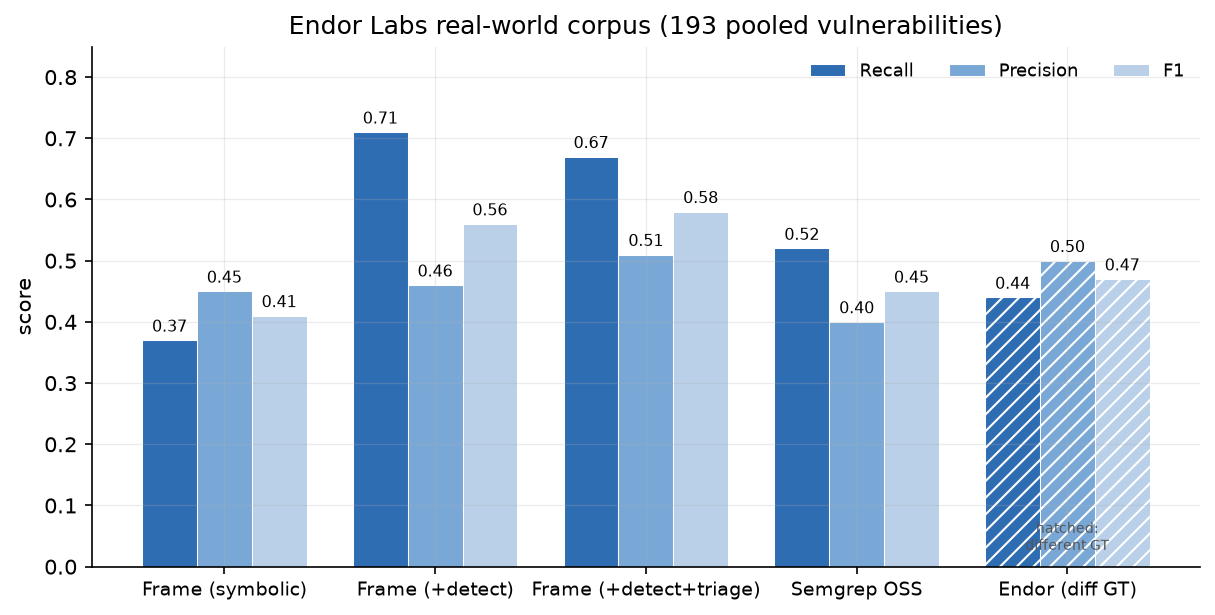
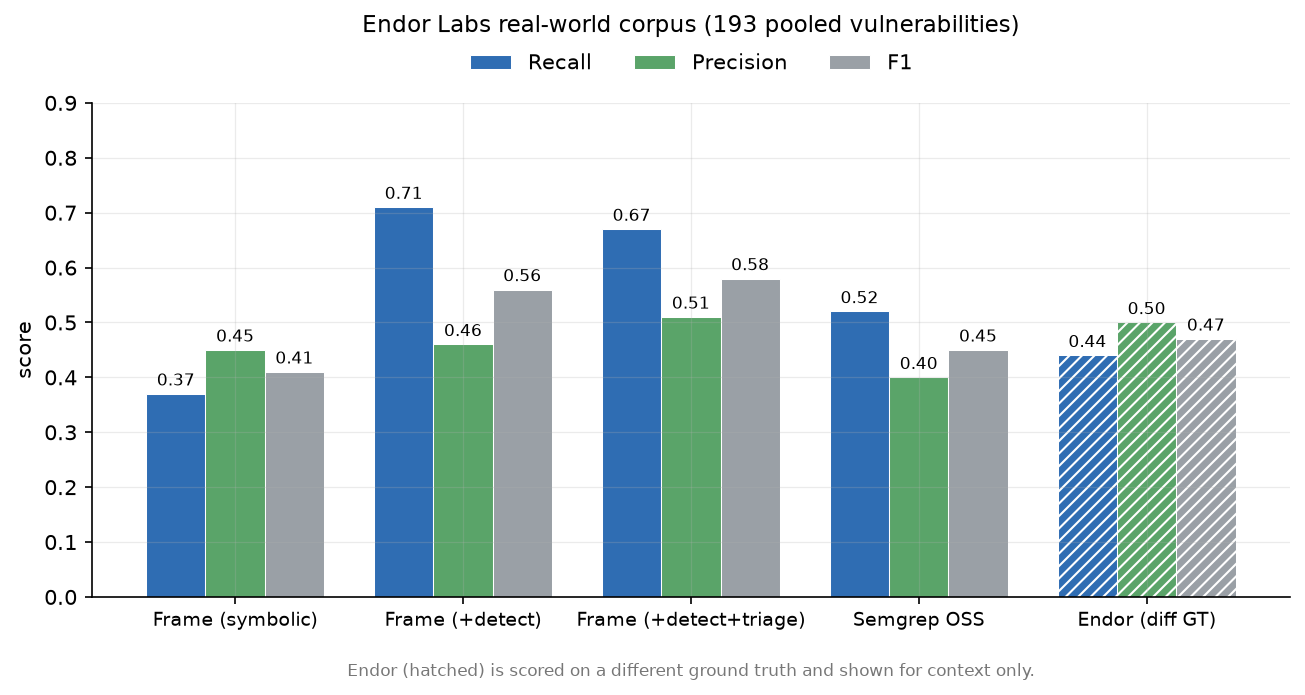
writeup: cleaner architecture diagram, clearer figs 2/4, link corpus code
Orthogonal architecture SVG (no overlapping arrows); fig2 distinct colors + legend
above bars + different-GT note; fig4 legend clears the bars; case-study files link
to upstream code at pinned commits; corpus repos linked; drop trailing gen_figures line.

diff --git a/writeup/gen_figures.py b/writeup/gen_figures.py
@@ -49,29 +49,32 @@ def fig_scoreboard():
     scanners = list(sb.keys())
     metrics = ["recall", "precision", "f1"]
     labels = ["Recall", "Precision", "F1"]
-    colors = [C_FRAME, C_FRAME2, C_FRAME3]
+    colors = [C_FRAME, C_LLM, C_ENDOR]   # distinct hues so the legend reads clearly
     x = range(len(scanners))
     w = 0.26
-    fig, ax = plt.subplots(figsize=(8.2, 4.2))
+    fig, ax = plt.subplots(figsize=(8.8, 4.8))
     for i, (m, lab, col) in enumerate(zip(metrics, labels, colors)):
         vals = [sb[s][m] for s in scanners]
         bars = ax.bar([xi + (i - 1) * w for xi in x], vals, w, label=lab, color=col,
                       edgecolor="white", linewidth=0.5)
         for b, v in zip(bars, vals):
             ax.text(b.get_x() + b.get_width() / 2, v + 0.008, f"{v:.2f}",
-                    ha="center", va="bottom", fontsize=7.5)
+                    ha="center", va="bottom", fontsize=8)
     # hatch the Endor group to flag "different ground truth"
     endor_idx = scanners.index("Endor (diff GT)")
     for i in range(3):
-        ax.patches[i * len(scanners) + endor_idx].set_hatch("///")
+        ax.patches[i * len(scanners) + endor_idx].set_hatch("////")
     ax.set_xticks(list(x))
     ax.set_xticklabels(scanners, fontsize=9)
-    ax.set_ylim(0, 0.85)
+    ax.set_ylim(0, 0.9)
     ax.set_ylabel("score")
-    ax.set_title("Endor Labs real-world corpus (193 pooled vulnerabilities)")
-    ax.legend(loc="upper right", frameon=False, ncol=3, fontsize=8.5)
-    ax.text(endor_idx, 0.02, "hatched:\ndifferent GT", ha="center", va="bottom",
-            fontsize=6.5, color="#555")
+    # legend above the plot so it never overlaps a bar
+    ax.legend(loc="lower center", bbox_to_anchor=(0.5, 1.02), ncol=3,
+              frameon=False, fontsize=10)
+    ax.set_title("Endor Labs real-world corpus (193 pooled vulnerabilities)",
+                 pad=34, fontsize=11)
+    ax.text(0.5, -0.16, "Endor (hatched) is scored on a different ground truth and shown for context only.",
+            transform=ax.transAxes, ha="center", fontsize=8, color="#777")
     _save(fig, "fig2_scoreboard.png")
 
 
@@ -116,7 +119,9 @@ def fig_triage():
     for i, (k, d) in enumerate(zip(kept, dropped)):
         a2.text(i, k / 2, str(k), ha="center", va="center", color="white", fontsize=9)
         a2.text(i, k + d / 2, str(d), ha="center", va="center", color="white", fontsize=9)
-    a2.set_title("Triage keeps TPs, drops FPs")
+    a2.set_ylim(0, max(k + d for k, d in zip(kept, dropped)) + 10)  # headroom for legend
+    a2.set_ylabel("findings")
+    a2.set_title("Triage keeps TPs, drops FPs", pad=8)
     a2.legend(loc="upper right", frameon=False, fontsize=8.5)
     _save(fig, "fig4_triage.png")
 

diff --git a/writeup/frame-ai-sast.md b/writeup/frame-ai-sast.md
@@ -40,7 +40,7 @@ The headline is one table. Everything after it is how we got there and why the n
 
 **Precision: a finding that is real-looking but not real.** Frame's symbolic layer, run over a real application, flags a regular-expression denial-of-service pattern inside a bundled, minified JavaScript library it ships. The pattern is there, but the library code is not reachable from any request the application serves. Across the corpus, 264 of Frame's 371 symbolic false positives are exactly this class: `CWE-1333` (ReDoS) and `CWE-1321` (prototype pollution) matched inside vendored libraries. A tool that reports them is not wrong about the syntax; it is wrong about the context. Triage exists to remove them.
 
-**Recall: a vulnerability the symbolic engine cannot express.** Consider this handler from the C# application in the corpus (`DotNetFlicks.Controllers/MovieController.cs`):
+**Recall: a vulnerability the symbolic engine cannot express.** Consider this handler from the C# application in the corpus ([`DotNetFlicks.Web/Controllers/MovieController.cs`](https://github.com/Contrast-Security-OSS/demo-netflicks/blob/2c3dd095c3f9e18d44940678fe68e9ff60f7a740/DotNetFlicks.Web/Controllers/MovieController.cs#L82)):
 
 ```csharp
 /*Sprinkle on some CSRF
@@ -96,11 +96,11 @@ Detection uses structured JSON output and fails safe: any transport or parse err
 
 | Repository | Language(s) | Pooled vulns |
 |---|---|:---:|
-| webgoat | Java, JS/TS | 73 |
-| juice-shop | JS/TS | 72 |
-| shopizer | Java, JS/TS | 29 |
-| anonymous-github | JS/TS | 12 |
-| demo-netflicks | C#, JS | 7 |
+| [webgoat](https://github.com/WebGoat/WebGoat) | Java, JS/TS | 73 |
+| [juice-shop](https://github.com/juice-shop/juice-shop) | JS/TS | 72 |
+| [shopizer](https://github.com/shopizer-ecommerce/shopizer) | Java, JS/TS | 29 |
+| [anonymous-github](https://github.com/tdurieux/anonymous_github) | JS/TS | 12 |
+| [demo-netflicks](https://github.com/Contrast-Security-OSS/demo-netflicks) | C#, JS | 7 |
 | **Total** | | **193** |
 
 **Judge validation.** The judge is a stand-in for manual review, so we checked it against real labels. On a BenchmarkJava sample, where ground truth is known, the Sonnet 5 judge agreed with the official labels about 89% of the time. Labels carry a `claude_code:*` source so they stay distinct from any hand-validated set.
@@ -137,7 +137,7 @@ In total the LLM layer contributes 68 confirmed detections (about 65 net after d
 
 **7.1 Triage removes a context false positive.** The 264 vendored-library matches from Section 2 are the bulk of the symbolic layer's false positives. They are syntactically real regex or object-merge patterns sitting in code the application never reaches from a request. Triage, reading the surrounding context, rejects them. This is the mechanism behind the precision recovery in Figure 4.
 
-**7.2 Single-file detection recovers an interprocedural SQL injection.** From webgoat (`SqlInjectionLesson5.java`):
+**7.2 Single-file detection recovers an interprocedural SQL injection.** From webgoat ([`SqlInjectionLesson5.java`](https://github.com/WebGoat/WebGoat/blob/0fec33936a472330718f3e2eb000694f31633b4d/src/main/java/org/owasp/webgoat/lessons/sqlinjection/introduction/SqlInjectionLesson5.java#L55)):
 
 ```java
 public AttackResult completed(String query) {   // request-derived parameter
@@ -191,7 +191,7 @@ finding: CWE-89 at route.js:4  (tier: llm_detect)
 
 The source and the sink are in different files. The agent read the helper, confirmed the sink with a grep, and reported the flow, three model calls end to end. Neither single-file analysis nor a taint engine that does not cross this boundary would connect it.
 
-**7.4 C# coverage where both traditional engines report nothing.** demo-netflicks is an ASP.NET application whose logic is in C#. Frame's symbolic C# analysis parses all 115 files and reports zero vulnerabilities; Semgrep reports zero true positives (its only output on this repo is 32 false positives in vendored JavaScript). The LLM layer found five real vulnerabilities. One (`DotNetFlicks.Accessors/MovieAccessor.cs`):
+**7.4 C# coverage where both traditional engines report nothing.** demo-netflicks is an ASP.NET application whose logic is in C#. Frame's symbolic C# analysis parses all 115 files and reports zero vulnerabilities; Semgrep reports zero true positives (its only output on this repo is 32 false positives in vendored JavaScript). The LLM layer found five real vulnerabilities. One ([`DotNetFlicks.Accessors/Accessors/MovieAccessor.cs`](https://github.com/Contrast-Security-OSS/demo-netflicks/blob/2c3dd095c3f9e18d44940678fe68e9ff60f7a740/DotNetFlicks.Accessors/Accessors/MovieAccessor.cs#L56)):
 
 ```csharp
 _db.Database.ExecuteSqlRaw(
@@ -221,4 +221,4 @@ SMT-based separation logic reduces heap reasoning to first-order queries (the he
 
 Sound symbolic analysis and LLMs are complementary. Kept apart, each has a known failure mode: the symbolic engine misses what its models cannot express, and the LLM invents what it cannot prove. Frame puts them together with the symbolic engine in charge of the truth: it detects with the LLM, verifies with the symbolic sink model, tiers so nothing is confused with a proof, and triages away the noise. On real-world code the result is higher recall and higher precision than a mature pattern scanner, on a local model, with every finding either proven or clearly labeled. The honest asterisk is the asymmetric ground truth, and we would rather state it than hide it.
 
-Artifacts, the pooled ground truth, and the harness are in the [Frame repository](https://github.com/lambdasec/frame); the figures in this report regenerate from the committed data with `writeup/gen_figures.py`.
+Artifacts, the pooled ground truth, and the harness are in the [Frame repository](https://github.com/lambdasec/frame).